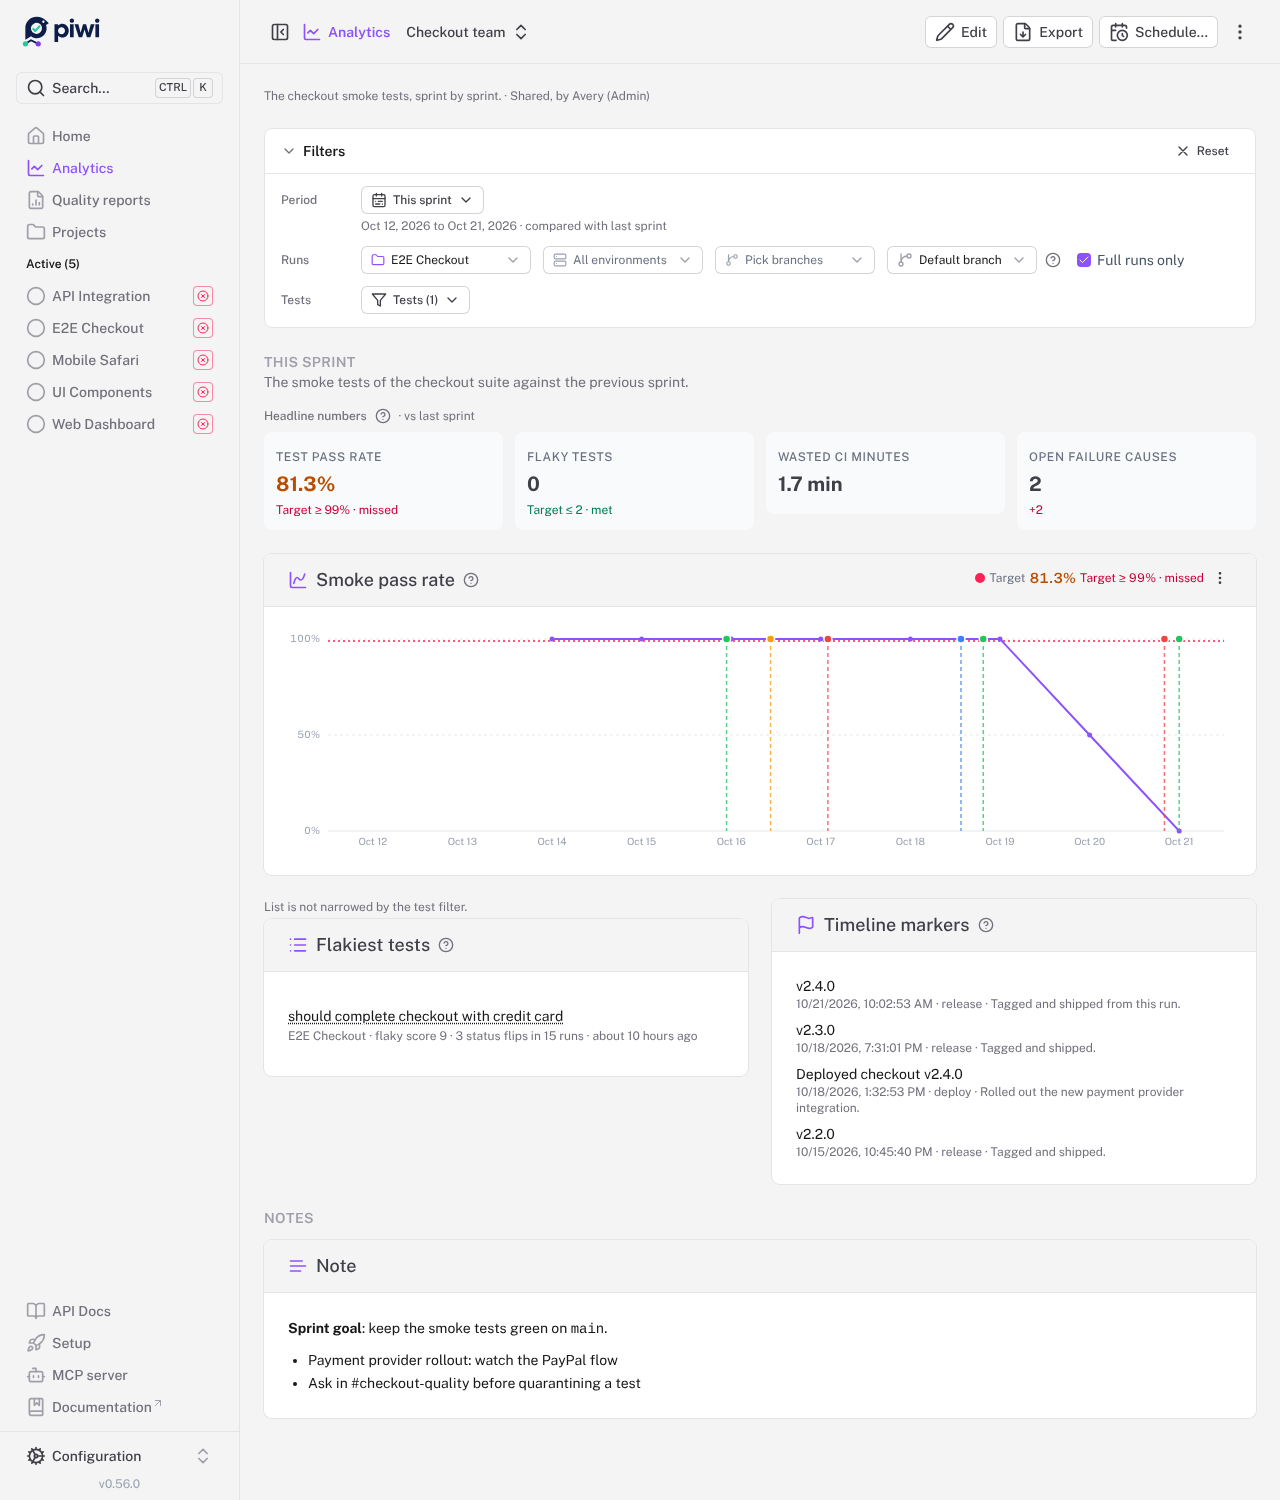
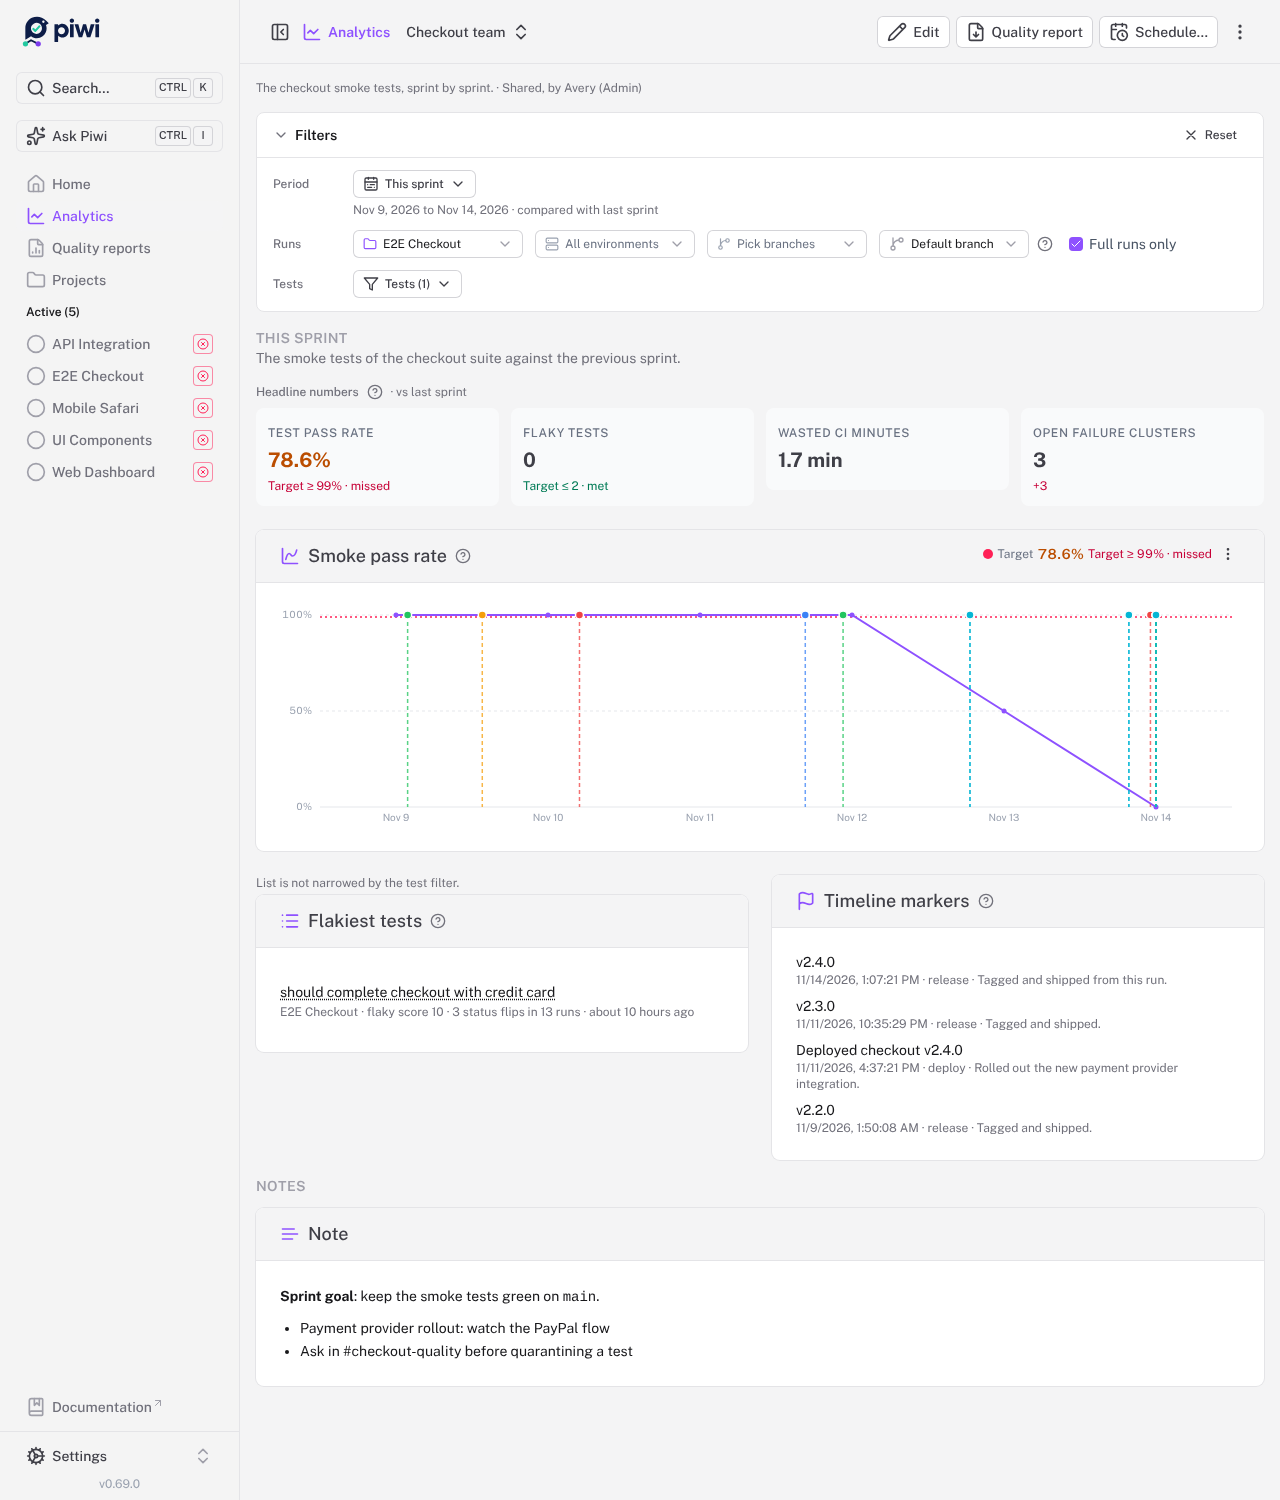
feat(ui): give Settings, Companion tools, the quality report and capabilities one name each
- The user menu says Settings whatever authentication is: its button with
  authentication off, a Settings heading over the pages when it names the
  signed-in user.
- The user menu's Piwi tools is Companion tools, as the page, and both list
  Piwi Runner.
- The Export button of a project and of an analytics dashboard, which builds a
  quality report, reads Quality report; Export stays the offline export of a
  run, an execution and a cluster.
- The Capabilities page names a capability by the place it configures:
  Integrations, Gaps and Map, Flake Lab (linking its own docs page), Pull
  requests; a project's Capabilities section says Gaps and Map and Flake Lab.
  Ids are unchanged.
- The Source control capability links Settings → Source control.

Claude-Session: https://claude.ai/code/session_01ADXAbfaBY74DfSZAxSi1dN

diff --git a/apps/application/app/utils/setup-capabilities.ts b/apps/application/app/utils/setup-capabilities.ts
@@ -147,15 +147,15 @@ export const SETUP_CAPABILITIES: SetupCapabilityCopy[] = [
     title: 'Quality reports',
     summary:
       'The analytics page as a document for someone who never opens the dashboard: a verdict, headline numbers, the trend, what is being done and the risks, as PDF, HTML, Markdown, Excel or JSON.',
-    how: 'Click Export on the Analytics page or on a project page, pick a dashboard and download the format you need.',
+    how: 'Click Quality report on the Analytics page or on a project page, pick a dashboard and download the format you need.',
     icon: 'i-lucide-file-chart-column',
     doc: 'features/quality-reports',
   },
   {
     id: 'pr-feedback',
-    title: 'Pull-request feedback',
+    title: 'Pull requests',
     summary: 'When a run finishes on a branch with an open pull request, the result posted back to it.',
-    how: 'Configure it in Settings — needs a repository access token.',
+    how: 'Configure it in Settings — needs an SCM token with write access.',
     icon: 'i-lucide-git-pull-request',
     doc: 'features/pr-feedback',
     to: '/settings/pr-feedback',
@@ -174,7 +174,7 @@ export const SETUP_CAPABILITIES: SetupCapabilityCopy[] = [
   },
   {
     id: 'integrations',
-    title: 'Issue tracking',
+    title: 'Integrations',
     summary: 'Create and link issues in Jira, GitHub or GitLab straight from a failure cluster.',
     how: 'Connect a system in Settings.',
     icon: 'i-lucide-plug',
@@ -187,10 +187,10 @@ export const SETUP_CAPABILITIES: SetupCapabilityCopy[] = [
     title: 'Source control',
     summary:
       'The commits behind a failure, CODEOWNERS-derived ownership, and pull-request feedback on the branch that broke.',
-    how: 'Add a repository access token on the project, or globally in Settings.',
+    how: 'Add an SCM token in Settings → Source control, or on the project in its Source control settings.',
     icon: 'i-lucide-git-branch',
     doc: 'guide/source-control',
-    to: '/settings/ai',
+    to: '/settings/source-control',
     toLabel: 'Add a token',
   },
   {
@@ -223,10 +223,10 @@ export const SETUP_CAPABILITIES: SetupCapabilityCopy[] = [
   },
   {
     id: 'test-map',
-    title: 'Scenario gaps',
+    title: 'Gaps and Map',
     summary:
-      'The tests you have not written yet: routes and pages your runs reach but nothing checks, ranked by exposure, each with a skeleton to start from.',
-    how: "Automatic — the map builds from your runs, and gaps appear on a project's Coverage tab as reach accrues.",
+      'The tests you have not written yet: routes and pages your runs reach but nothing checks, ranked by exposure, each with a skeleton to start from, and the map of what your tests reach.',
+    how: "Automatic — the map builds from your runs, and gaps appear in the Gaps and Map views of a project's Coverage tab as reach accrues.",
     icon: 'i-lucide-map',
     doc: 'features/scenario-gaps',
   },
@@ -253,12 +253,12 @@ export const SETUP_CAPABILITIES: SetupCapabilityCopy[] = [
   },
   {
     id: 'flake-lab',
-    title: 'Flake suspects',
+    title: 'Flake Lab',
     summary:
-      'For a flaky test, the requests, neighbors and load its failures share and its passes do not, each with the counts behind it and the condition that would test it.',
-    how: 'Automatic — suspects appear on a flaky test’s Flakiness tab once its history holds at least three failures that share something.',
+      'For a flaky test, the requests, neighbors and load its failures share and its passes do not, each with the counts behind it and the condition that would test it, and a project tab of the experiments that test them.',
+    how: "Automatic — suspects appear on a flaky test’s Flakiness tab once its history holds at least three failures that share something, and the experiments on the project's Flake Lab tab.",
     icon: 'i-lucide-search-check',
-    doc: 'features/flaky-tests',
+    doc: 'features/flake-lab',
   },
   {
     id: 'resources',

diff --git a/apps/application/app/components/layout/UserMenu.vue b/apps/application/app/components/layout/UserMenu.vue
@@ -52,7 +52,7 @@ const user = computed<{
     };
   }
   return {
-    name: 'Configuration',
+    name: 'Settings',
     icon: 'i-lucide-cog',
   };
 });
@@ -63,16 +63,18 @@ const items = computed<DropdownMenuItem[][]>(() => {
   // API keys, Notifications… Nav items are reused as dropdown items (both are
   // link items); the cast bridges the slightly different `type` union between
   // the two Nuxt UI types. `settingsNav` is grouped into sections — this menu
-  // wants one flat list, with the Setup section folded into one submenu.
-  const configurationMenuItems: DropdownMenuItem[] = [];
+  // wants one flat list, with the Setup section folded into one submenu. When
+  // the button names the signed-in user, a Settings heading names the list, so
+  // the menu says Settings whether authentication is on or off.
+  const settingsMenuItems: DropdownMenuItem[] = user.value.account ? [{ type: 'label', label: 'Settings' }] : [];
   for (const section of settingsNav.value as unknown as DropdownMenuItem[][]) {
     const group = SETTINGS_PAGES.find((page) => page.to === section[0]?.to)?.group;
-    if (group === 'setup') configurationMenuItems.push({ label: 'Setup', icon: 'i-lucide-rocket', children: section });
-    else configurationMenuItems.push(...section);
+    if (group === 'setup') settingsMenuItems.push({ label: 'Setup', icon: 'i-lucide-rocket', children: section });
+    else settingsMenuItems.push(...section);
   }
 
   const baseItems: DropdownMenuItem[][] = [
-    configurationMenuItems,
+    settingsMenuItems,
     [
       {
         label: 'Theme',
@@ -151,7 +153,7 @@ const items = computed<DropdownMenuItem[][]>(() => {
       {
         // The tools that install outside the dashboard, as Settings → Companion
         // tools lists them, one click away.
-        label: 'Piwi tools',
+        label: 'Companion tools',
         icon: 'i-lucide-blocks',
         ui: { content: 'w-80' },
         children: [
@@ -191,6 +193,13 @@ const items = computed<DropdownMenuItem[][]>(() => {
                     label: 'Desktop app',
                     description: 'Installers · GitHub Releases',
                     icon: 'i-lucide-monitor',
+                    to: DESKTOP_DOWNLOAD_URL,
+                    target: '_blank',
+                  },
+                  {
+                    label: 'Piwi Runner',
+                    description: 'Installers · GitHub Releases',
+                    icon: 'i-lucide-play',
                     to: DESKTOP_DOWNLOAD_URL,
                     target: '_blank',
                   },

diff --git a/apps/application/tests/quality-reports.spec.ts b/apps/application/tests/quality-reports.spec.ts
@@ -1,7 +1,7 @@
 /**
  * Quality reports:
  *   GET /api/reports/preview — the report bundle as JSON, and every download format
- *   Export on /analytics      — the preview dialog, the dashboard and language pickers, a download
+ *   Quality report on /analytics — the preview dialog, the dashboard and language pickers, a download
  *   Settings → Performance    — the cost of a CI minute, shown with the wasted minutes
  *   MCP get_quality_report    — the bundle over the same scope
  */
@@ -54,7 +54,8 @@ test.beforeAll(async ({ request }) => {
 async function openReport(page: import('@playwright/test').Page) {
   const preview = page.getByTestId('report-view');
   await expect(async () => {
-    if (!(await preview.isVisible())) await page.getByRole('button', { name: 'Export' }).first().click();
+    if (!(await preview.isVisible()))
+      await page.getByRole('button', { name: 'Quality report', exact: true }).first().click();
     await expect(preview).toBeVisible({ timeout: 3000 });
   }).toPass({ timeout: 60_000 });
   return preview;
@@ -150,7 +151,7 @@ test.describe('Quality report API', () => {
   });
 });
 
-test.describe('Export on the analytics page', () => {
+test.describe('Quality report on the analytics page', () => {
   test('previews the scope as a quality report and downloads it', async ({ page, request }) => {
     const bundle: ReportBundle = await (await request.get(`/api/reports/preview?${scope()}`)).json();
     await page.goto(`/analytics?${scope()}`);
@@ -201,7 +202,7 @@ test.describe('Export on the analytics page', () => {
     expect(sheets[0]!.data.length).toBeGreaterThan(1);
   });
 
-  test('the project page offers Export for that project', async ({ page }) => {
+  test('the project page offers a quality report of that project', async ({ page }) => {
     await page.goto(`/projects/${projectId}`);
     const preview = await openReport(page);
     await expect(preview.getByText(`${PROJECT.QUALITY_REPORT}, Last 30 days`)).toBeVisible();

diff --git a/apps/application/app/components/layout/CompanionToolsCard.vue b/apps/application/app/components/layout/CompanionToolsCard.vue
@@ -1,8 +1,8 @@
 <script setup lang="ts">
 /**
  * The tools that ship alongside the dashboard but install elsewhere — the
- * browser extension, the desktop app, the reporter CLI, MCP agent access, the
- * editor extensions and the IDE hand-off. Unlike the capability ladder, none of these leave
+ * browser extension, the desktop app, Piwi Runner, the reporter CLI, MCP agent
+ * access, the editor extensions and the IDE hand-off. Unlike the capability ladder, none of these leave
  * evidence on the instance, so the card is informative rather than detected.
  */
 import {
@@ -62,6 +62,26 @@ const isDesktop = useIsDesktop();
               GitHub Releases
             </UButton>
             <DocLink to="features/desktop" class="text-sm">Docs</DocLink>
+          </div>
+        </div>
+      </li>
+
+      <li v-if="!isDesktop" class="flex gap-4 py-4 first:pt-0 last:pb-0">
+        <div class="flex size-9 shrink-0 items-center justify-center rounded-lg bg-elevated text-dimmed">
+          <UIcon name="i-lucide-play" class="size-5" />
+        </div>
+        <div class="flex-1 min-w-0">
+          <h3 class="font-medium mb-1">Piwi Runner</h3>
+          <p class="text-sm text-gray-600 dark:text-gray-400">
+            A small app that takes Run on my machine requests from this instance without the dashboard: it asks before
+            every run, runs it in your folder and stays in the tray. Run on my machine is off until an administrator
+            turns it on in Capabilities.
+          </p>
+          <div class="flex items-center gap-3 mt-2 text-sm">
+            <UButton :to="DESKTOP_DOWNLOAD_URL" target="_blank" size="xs" variant="soft" icon="i-lucide-download">
+              GitHub Releases
+            </UButton>
+            <DocLink to="features/piwi-runner" class="text-sm">Docs</DocLink>
           </div>
         </div>
       </li>

diff --git a/apps/application/tests/open-in-ide.spec.ts b/apps/application/tests/open-in-ide.spec.ts
@@ -14,7 +14,7 @@ import { fakeJetbrainsIdes } from './utils/fake-jetbrains';
 async function openTheSettings(page: Page) {
   await page.goto('/');
   await waitForHydration(page);
-  await page.getByRole('button', { name: 'Configuration' }).click();
+  await page.getByRole('button', { name: 'Settings', exact: true }).click();
   await page.getByRole('menuitem', { name: 'Open in editor…' }).click();
   await expect(page.getByRole('dialog').filter({ hasText: 'Click a source path anywhere' })).toBeVisible();
 }

diff --git a/apps/application/app/components/project/ProjectCapabilityDecisions.vue b/apps/application/app/components/project/ProjectCapabilityDecisions.vue
@@ -28,9 +28,9 @@ const CAPABILITY_LABELS: Partial<Record<CapabilityId, string>> = {
   scm: 'Source control',
   quarantine: 'Quarantine',
   markers: 'Timeline markers',
-  'test-map': 'Scenario gaps & the Test Map',
+  'test-map': 'Gaps and Map',
   'server-probes': 'Server probes',
-  'flake-lab': 'Flake suspects',
+  'flake-lab': 'Flake Lab',
   'bug-reports': 'Bug reports',
   resources: 'Resources',
   'agent-diagnoses': 'Agent diagnoses',

diff --git a/apps/application/tests/theme-preferences.spec.ts b/apps/application/tests/theme-preferences.spec.ts
@@ -12,7 +12,7 @@ test.describe('Theme preferences', () => {
     await page.emulateMedia({ colorScheme: 'light' });
     await page.goto('/');
     await waitForHydration(page);
-    const menuButton = page.getByRole('button', { name: 'Configuration' });
+    const menuButton = page.getByRole('button', { name: 'Settings', exact: true });
 
     await menuButton.click();
     await page.getByRole('menuitem', { name: /^Theme/ }).hover();

diff --git a/apps/application/shared/companion-links.ts b/apps/application/shared/companion-links.ts
@@ -1,6 +1,6 @@
 /**
  * Where Piwi's separately installed tools are published: the store listings and
- * download pages the dashboard links to (the user menu's Piwi tools, Settings →
+ * download pages the dashboard links to (the user menu's Companion tools, Settings →
  * Companion tools, the Open in editor dialog).
  */
 

diff --git a/apps/application/app/components/analytics/DashboardBody.vue b/apps/application/app/components/analytics/DashboardBody.vue
@@ -470,7 +470,7 @@ const headerActions = computed(() => {
   }
   if (!isHidden('quality-reports')) {
     actions.push({
-      label: 'Export',
+      label: 'Quality report',
       icon: 'i-lucide-file-down',
       variant: 'outline',
       color: 'neutral',

diff --git a/apps/docs/features/quality-reports.md b/apps/docs/features/quality-reports.md
@@ -42,14 +42,14 @@ each metric's definition, and its limits: lists of tests reach back only as far 
 
 ### The verdict is built by rules
 
-The opening sentence ("The pass rate on main fell 2.1 points to 95.8%, and 3 failure causes were
+The opening sentence ("The pass rate on main fell 2.1 points to 95.8%, and 3 failure clusters were
 fixed.") comes from fixed rules over the numbers, never from a model. Its tone is **good** at a pass rate
 of 90% or more that did not drop by more than a point, **bad** under 50% or after a drop of 5 points or
 more, **mixed** otherwise.
 
 ## Exporting a report
 
-Click **Export** on the Analytics page (the current scope) or on a project page (that project, last 30
+Click **Quality report** on the Analytics page (the current scope) or on a project page (that project, last 30
 days). The dialog previews the report; pick another dashboard or the language, then **Download**:
 
 | Format | What you get |
@@ -147,7 +147,7 @@ quality report; unset, only minutes show. The cost is one instance-wide value.
 ## Turning reports off
 
 Quality reports are an optional [capability](/operate/capabilities#declining-a-capability). Declining it in **Settings → Capabilities** hides
-the *Export* and *Schedule…* actions and the *Quality reports* page, and drops `get_quality_report` from
+the *Quality report* and *Schedule…* actions and the *Quality reports* page, and drops `get_quality_report` from
 the MCP tools; the analytics page and the metric tools stay, since analytics is core. A schedule or a
 snapshot counts as use, so the capability stays on while one exists: delete them first.
 

diff --git a/apps/docs/features/dashboards.md b/apps/docs/features/dashboards.md
@@ -23,7 +23,8 @@ The scope and what the numbers mean are on [Analytics](./analytics); sending one
 
 The header's switcher lists every dashboard you can open, with a search:
 
-- **Built-in**: Overview (the analytics page, four bands and sixteen widgets), and the report dashboards
+- **Built-in**: Overview (four bands and sixteen widgets, where `/analytics` opens unless a
+  [default](#your-default-dashboard) is set), and the report dashboards
   Executive, Engineering and Gaps digest (only where the [Test Map](./scenario-gaps) is not declined), whose
   contents [Quality reports](./quality-reports#what-a-report-contains) describes. The Team dashboard is a quality
   report only, offered when the report's tests have an owner. A built-in dashboard cannot be changed, only duplicated.
@@ -135,7 +136,7 @@ instead.
 
 ## Scheduling and exporting a dashboard
 
-*Export* renders the dashboard on screen as a [quality report](./quality-reports) (the saved dashboard
+*Quality report* renders the dashboard on screen as a [quality report](./quality-reports) (the saved dashboard
 is offered first), and *Schedule…* creates a [report schedule](./quality-reports#report-schedules) on
 it. Deleting a dashboard that schedules render names them first; they stop, shown as inactive with the
 reason on the Reports page, until their owner picks another dashboard.

diff --git a/apps/docs/features/analytics.md b/apps/docs/features/analytics.md
@@ -100,7 +100,8 @@ The rollups also [export](/operate/metrics) to a BI tool or a Prometheus scraper
 
 ## Widgets and metrics
 
-The page is the built-in **Overview** [analytics dashboard](./dashboards), in four bands. [Analytics widgets](/reference/analytics-widgets)
+The page opens on the built-in **Overview** [analytics dashboard](./dashboards), in four bands, unless you or an
+administrator [made another the default](./dashboards#your-default-dashboard). [Analytics widgets](/reference/analytics-widgets)
 lists every widget an [analytics dashboard](./dashboards) can place, and [Metrics](/reference/metrics) defines every
 number they show, with its unit and which direction is better.
 
@@ -169,7 +170,7 @@ projects is under [Where markers show up](./timeline-markers#where-markers-show-
 ## Related
 
 - [Dashboards](./dashboards): analytics dashboards of your own
-- [Quality reports](./quality-reports): this page as a document, with **Export**
+- [Quality reports](./quality-reports): this page as a document, with **Quality report**
 - [Flaky tests](./flaky-tests): the per-project analysis these widgets aggregate
 - [Timeline markers](./timeline-markers): annotate the trends with real-world events
 - [Cut costly flakiness](/recipes/flaky-cleanup): from the flaky leaderboard to an afternoon of fixes
